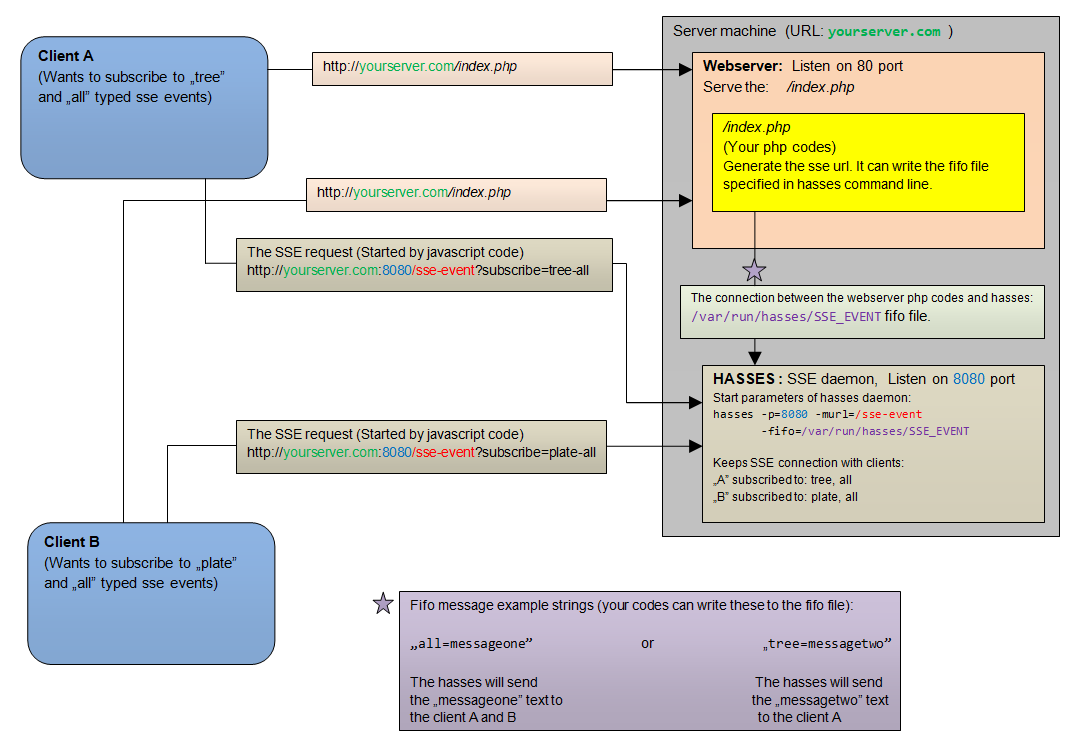
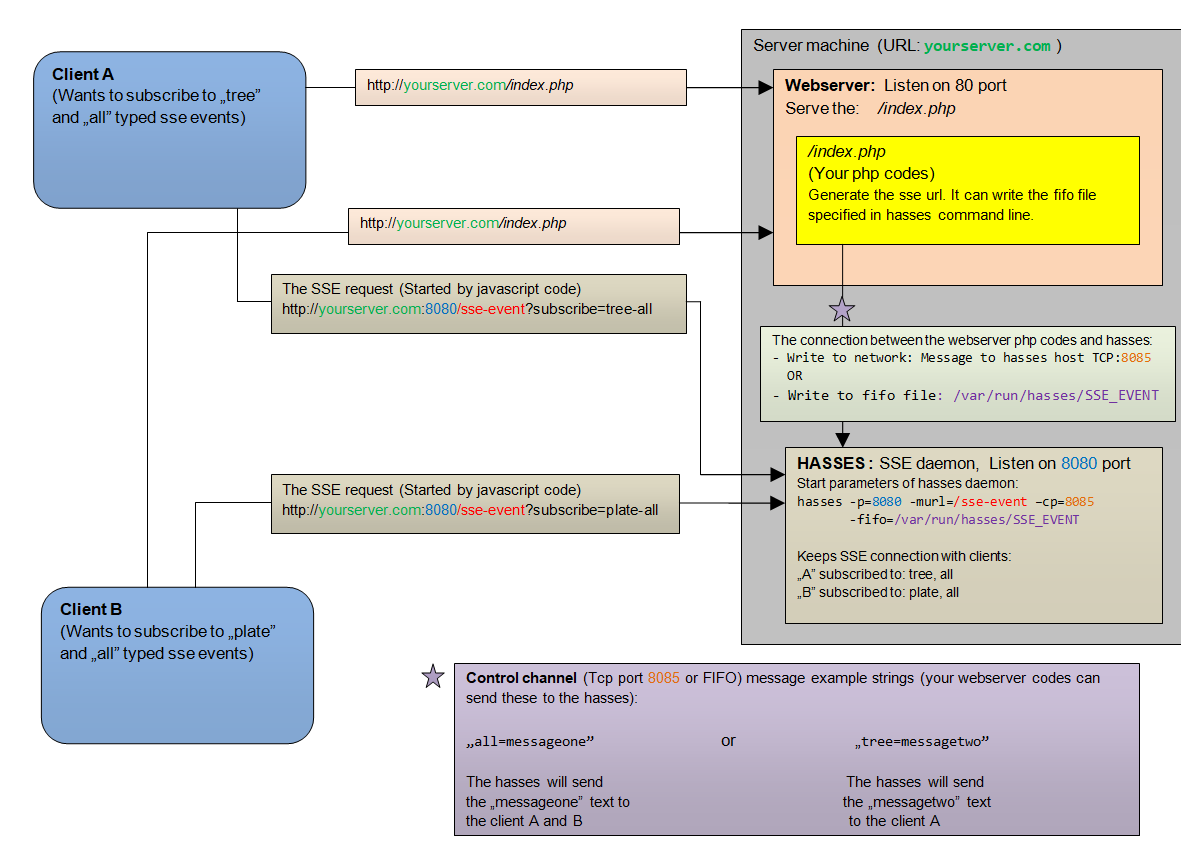
Updated architecture png Fix typo in docker-compose sample Added dockerhub image to the readme

Changed region(s): [[0.0, 0.0, 1.0, 0.984], [0.0, 0.6765, 0.2765, 0.8917], [0.5838, 0.861, 0.6145, 0.8917]]

diff --git a/hasses.h b/hasses.h
@@ -5,7 +5,7 @@
 #ifndef HASSES_HASSES_H
 #define HASSES_HASSES_H
 
-#define VERSION "1.210"
+#define VERSION "1.211"
 
 /* The client timeout check interval in seconds */ 
 #define CLIENT_CHK_TIME_INTERVAL  60

diff --git a/README.md b/README.md
@@ -35,7 +35,22 @@ Require openssl development tools
 
     $make
     #make install
-    
+
+Docker images
+-------------
+Available an Alpine linux container with the configured hasses daemon:
+ Docker hub:
+
+- https://hub.docker.com/r/hyperprog/hassesdaemon
+
+ Downloadable (pullable) image name:
+ 
+    hyperprog/hassesdaemon
+
+The image expose the 8080 port to SSE connections 
+and the 8085 for control channel communication messages.
+The sse requests matches to the /sse locations by default.
+
  Acrhitecture
  ------------
  
